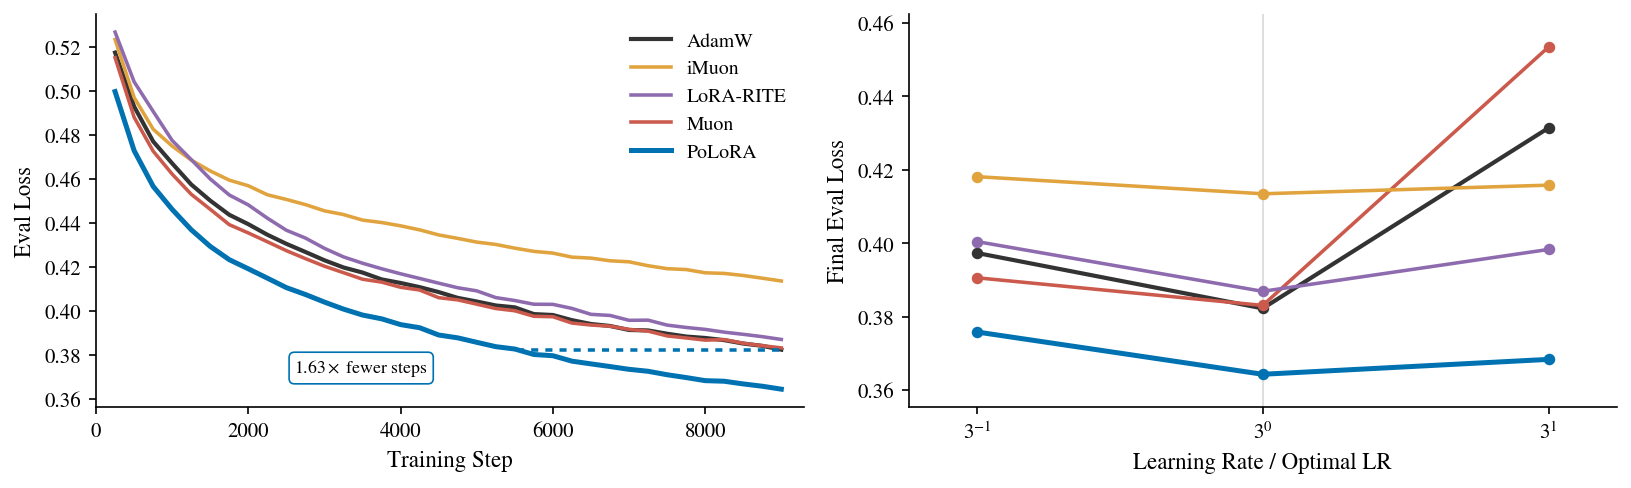
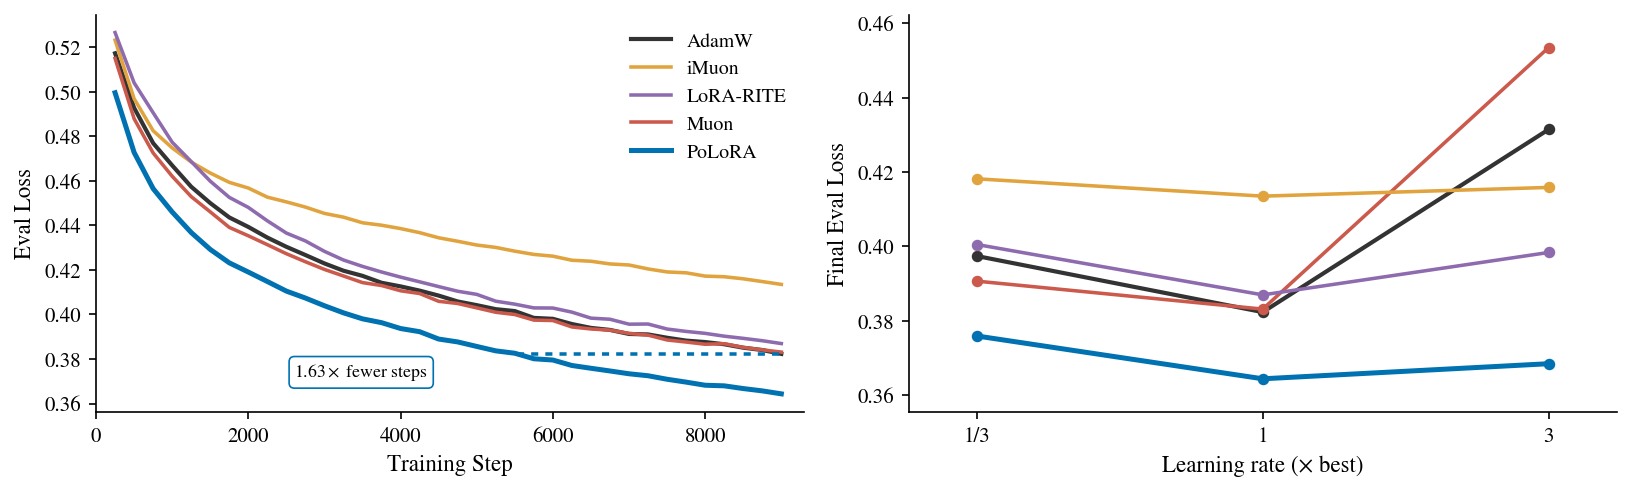
figs: clearer hero LR-tuning x-axis + PoLoRA pin for eps default
fig_hero right panel: ticks 1/3 · 1 · 3 with a "Learning rate (× best)"
label (was base-3 3^k ticks / "Learning Rate / Optimal LR"), and drop
the center vline — a coauthor found the old axis confusing.

_is_proto now accepts the shipped cw_metric_init=1e-12 (P0=Q0=eps*I,
c2a3aab) as PoLoRA alongside the performance-equivalent legacy 'zero',
so the protagonist resolves in the hero cell now that eps is the default
init. Verified across all 18 workloads: identical PoLoRA coverage vs the
old pin, no LabelCollisionError. Note: this pin affects every paper
figure; only fig_hero_with_tuning is regenerated here.

diff --git a/lora_playground/plotting/paper_figs.py b/lora_playground/plotting/paper_figs.py
@@ -100,11 +100,13 @@ def _is_proto(cfg: dict) -> bool:
         # Pin every sub-knob that an investigation sweep flips while leaving the
         # fields above untouched -- otherwise that sweep is mislabeled PoLoRA and
         # wins cells via newest-wins. The canonical values: curvature metric init
-        # 'zero' (the e2 delta/ones runs are component experiments), rdinv variant
-        # 'A' (B/VN are investigation arms), no rdinv-delta sweep. The
-        # `labeled_completed_runs` discrimination guard fires if a NEW such knob
-        # appears, so this list is maintained by the guard, not by guesswork.
-        and cfg.get("cw_metric_init") in (None, "zero")
+        # 'zero' or the shipped '1e-12' (P0=Q0=eps*I, c2a3aab) -- verified
+        # performance-equivalent, so both are the protagonist (the e2 delta/ones
+        # runs are component experiments); rdinv variant 'A' (B/VN are investigation
+        # arms), no rdinv-delta sweep. The `labeled_completed_runs` discrimination
+        # guard fires if a NEW such knob appears, so this list is maintained by the
+        # guard, not by guesswork.
+        and cfg.get("cw_metric_init") in (None, "zero", "1e-12")
         and cfg.get("rdinv_variant") in (None, "A")
         and cfg.get("rdinv_delta") is None
     )
@@ -668,7 +670,6 @@ def _draw_lr_tuning(ax, legend=True):
     xpos = [1 / 3, 1.0, 3.0]             # optimum and its two neighbours, shared by all
 
     print("── fig_lr_tuning (Llama openmath r256, optimum and +/-1 grid step) ──")
-    ax.axvline(1.0, color="#dddddd", lw=0.9, zorder=0)
     vals = []
     for v in order:
         by_lr = labeled.get(v)
@@ -690,9 +691,9 @@ def _draw_lr_tuning(ax, legend=True):
     ax.set_xscale("log")
     ax.set_xlim(xpos[0] / 1.3, xpos[-1] * 1.3)
     ax.set_xticks(xpos)
-    ax.set_xticklabels([r"$3^{-1}$", r"$3^{0}$", r"$3^{1}$"])
+    ax.set_xticklabels(["1/3", "1", "3"])
     ax.xaxis.set_minor_locator(plt.NullLocator())
-    ax.set_xlabel("Learning Rate / Optimal LR")
+    ax.set_xlabel("Learning rate (× best)")
     ax.set_ylabel("Final Eval Loss")
     if legend:
         ax.legend(loc="center left", bbox_to_anchor=(1.02, 0.5), frameon=False)
